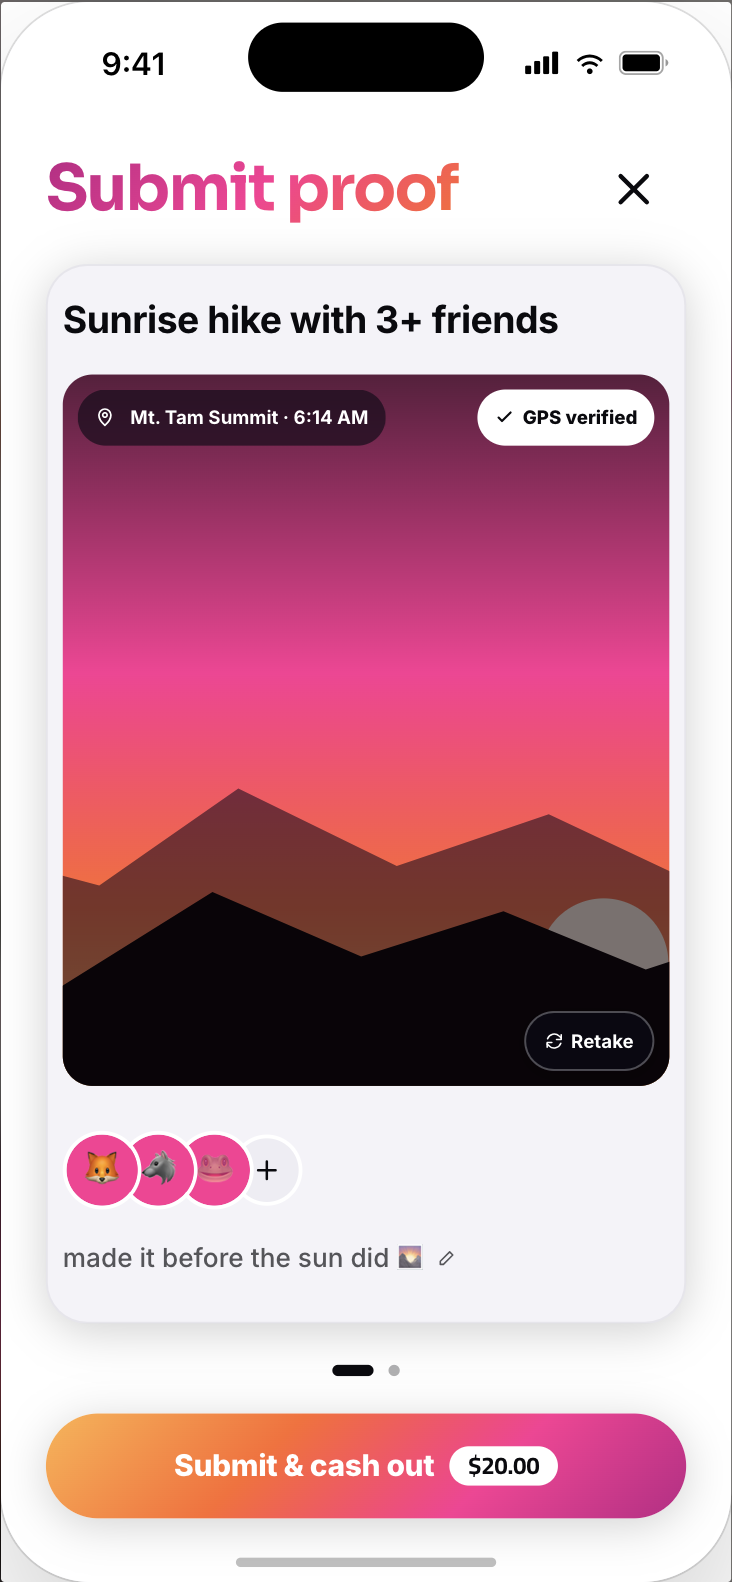
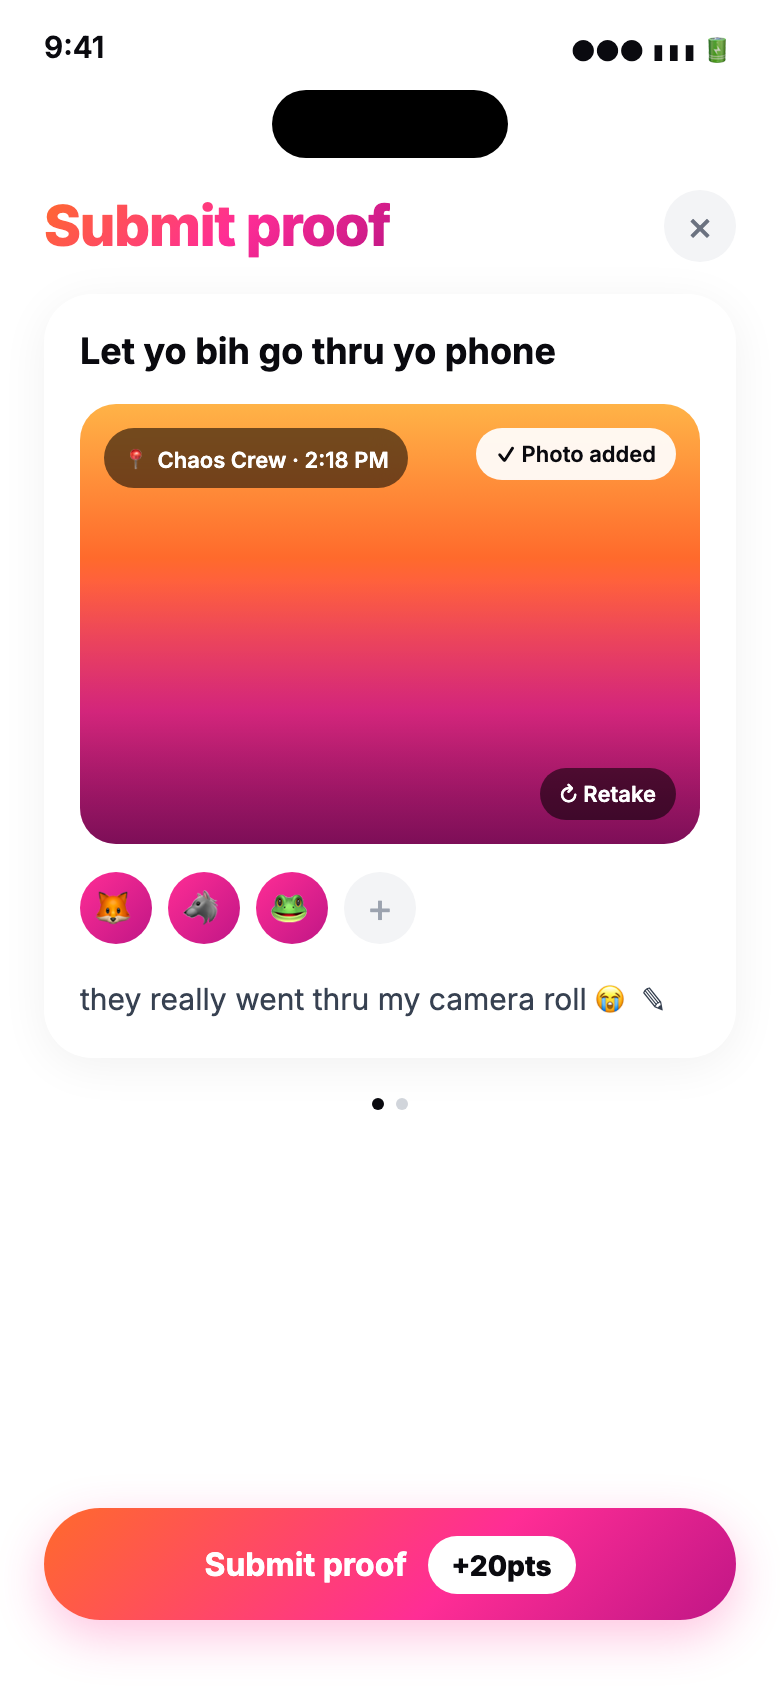
Fix Supabase schema for hosted deploys and finish website production polish.
Use extensions-scoped pgcrypto, security_invoker on friends_leaderboard, points-based proof mockup, and a root GitHub Pages workflow for zuvaro-website-source.

diff --git a/zuvaro-website-source/scripts/mockups/proof-original-style.html b/zuvaro-website-source/scripts/mockups/proof-original-style.html
@@ -1,0 +1,96 @@
+<!DOCTYPE html>
+<html lang="en">
+<head>
+<meta charset="UTF-8" />
+<link href="https://fonts.googleapis.com/css2?family=Inter:wght@400;500;600;700;800&display=swap" rel="stylesheet">
+<style>
+  * { box-sizing: border-box; margin: 0; padding: 0; }
+  body {
+    width: 390px; height: 844px; overflow: hidden;
+    font-family: Inter, -apple-system, BlinkMacSystemFont, sans-serif;
+    background: #fff; color: #0A0A0F;
+  }
+  .grad { background: linear-gradient(135deg, #FF6A2C 0%, #FF2D95 55%, #C01686 100%); -webkit-background-clip: text; background-clip: text; -webkit-text-fill-color: transparent; }
+  .status { display:flex; justify-content:space-between; padding:14px 22px 0; font-size:15px; font-weight:600; }
+  .island { width:118px; height:34px; background:#000; border-radius:20px; margin:10px auto 0; }
+  .header { display:flex; justify-content:space-between; align-items:center; padding:16px 22px 0; }
+  .header h1 { font-size:28px; font-weight:800; letter-spacing:-0.02em; }
+  .close { width:36px; height:36px; border-radius:50%; background:#F3F4F6; display:grid; place-items:center; font-size:20px; color:#6B7280; }
+  .card {
+    margin:16px 22px 0; padding:18px; border-radius:24px; background:#fff;
+    box-shadow:0 4px 24px rgba(0,0,0,.06);
+  }
+  .dare { font-size:18px; font-weight:700; margin-bottom:14px; line-height:1.25; }
+  .photo {
+    height:220px; border-radius:18px; overflow:hidden; position:relative;
+    background:linear-gradient(180deg,#FFB347 0%,#FF6A2C 35%,#FF2D95 70%,#C01686 100%);
+  }
+  .photo::after {
+    content:''; position:absolute; inset:0;
+    background:linear-gradient(180deg, transparent 40%, rgba(0,0,0,.35) 100%);
+  }
+  .mountains {
+    position:absolute; bottom:0; left:0; right:0; height:45%;
+    background:
+      polygon(0% 100%, 0% 55%, 18% 30%, 32% 50%, 48% 20%, 62% 45%, 78% 15%, 92% 40%, 100% 25%, 100% 100%) fill #1a1020;
+  }
+  .badge {
+    position:absolute; z-index:2; padding:6px 10px; border-radius:99px;
+    font-size:11px; font-weight:600; backdrop-filter:blur(8px);
+  }
+  .badge.loc { top:12px; left:12px; background:rgba(0,0,0,.55); color:#fff; }
+  .badge.gps { top:12px; right:12px; background:rgba(255,255,255,.92); color:#0A0A0F; }
+  .retake {
+    position:absolute; z-index:2; bottom:12px; right:12px; padding:6px 10px; border-radius:99px;
+    background:rgba(0,0,0,.55); color:#fff; font-size:11px; font-weight:600;
+  }
+  .friends { display:flex; gap:8px; margin-top:14px; align-items:center; }
+  .av { width:36px; height:36px; border-radius:50%; background:linear-gradient(135deg,#FF2D95,#C01686); display:grid; place-items:center; font-size:18px; }
+  .av.add { background:#F3F4F6; color:#9CA3AF; font-size:20px; font-weight:400; }
+  .caption {
+    margin-top:14px; font-size:15px; color:#374151; display:flex; align-items:center; gap:8px;
+  }
+  .dots { display:flex; justify-content:center; gap:6px; margin-top:20px; }
+  .dot { width:6px; height:6px; border-radius:50%; background:#D1D5DB; }
+  .dot.on { background:#0A0A0F; }
+  .cta-wrap { position:absolute; left:22px; right:22px; bottom:34px; }
+  .cta {
+    height:56px; border-radius:99px; display:flex; align-items:center; justify-content:center; gap:10px;
+    background:linear-gradient(135deg,#FF6A2C,#FF2D95 60%,#C01686);
+    color:#fff; font-size:16px; font-weight:700;
+    box-shadow:0 8px 24px rgba(255,45,149,.28);
+  }
+  .pts-pill {
+    background:#fff; color:#0A0A0F; padding:6px 12px; border-radius:99px;
+    font-size:14px; font-weight:800;
+  }
+</style>
+</head>
+<body>
+  <div class="status"><span>9:41</span><span style="font-size:13px">●●● ▮▮▮ 🔋</span></div>
+  <div class="island"></div>
+  <div class="header">
+    <h1 class="grad">Submit proof</h1>
+    <div class="close">×</div>
+  </div>
+  <div class="card">
+    <div class="dare">Let yo bih go thru yo phone</div>
+    <div class="photo">
+      <div class="badge loc">📍 Chaos Crew · 2:18 PM</div>
+      <div class="badge gps">✓ Photo added</div>
+      <div class="retake">↻ Retake</div>
+    </div>
+    <div class="friends">
+      <div class="av">🦊</div>
+      <div class="av">🐺</div>
+      <div class="av">🐸</div>
+      <div class="av add">+</div>
+    </div>
+    <div class="caption">they really went thru my camera roll 😭 ✎</div>
+  </div>
+  <div class="dots"><div class="dot on"></div><div class="dot"></div></div>
+  <div class="cta-wrap">
+    <div class="cta">Submit proof <span class="pts-pill">+20pts</span></div>
+  </div>
+</body>
+</html>